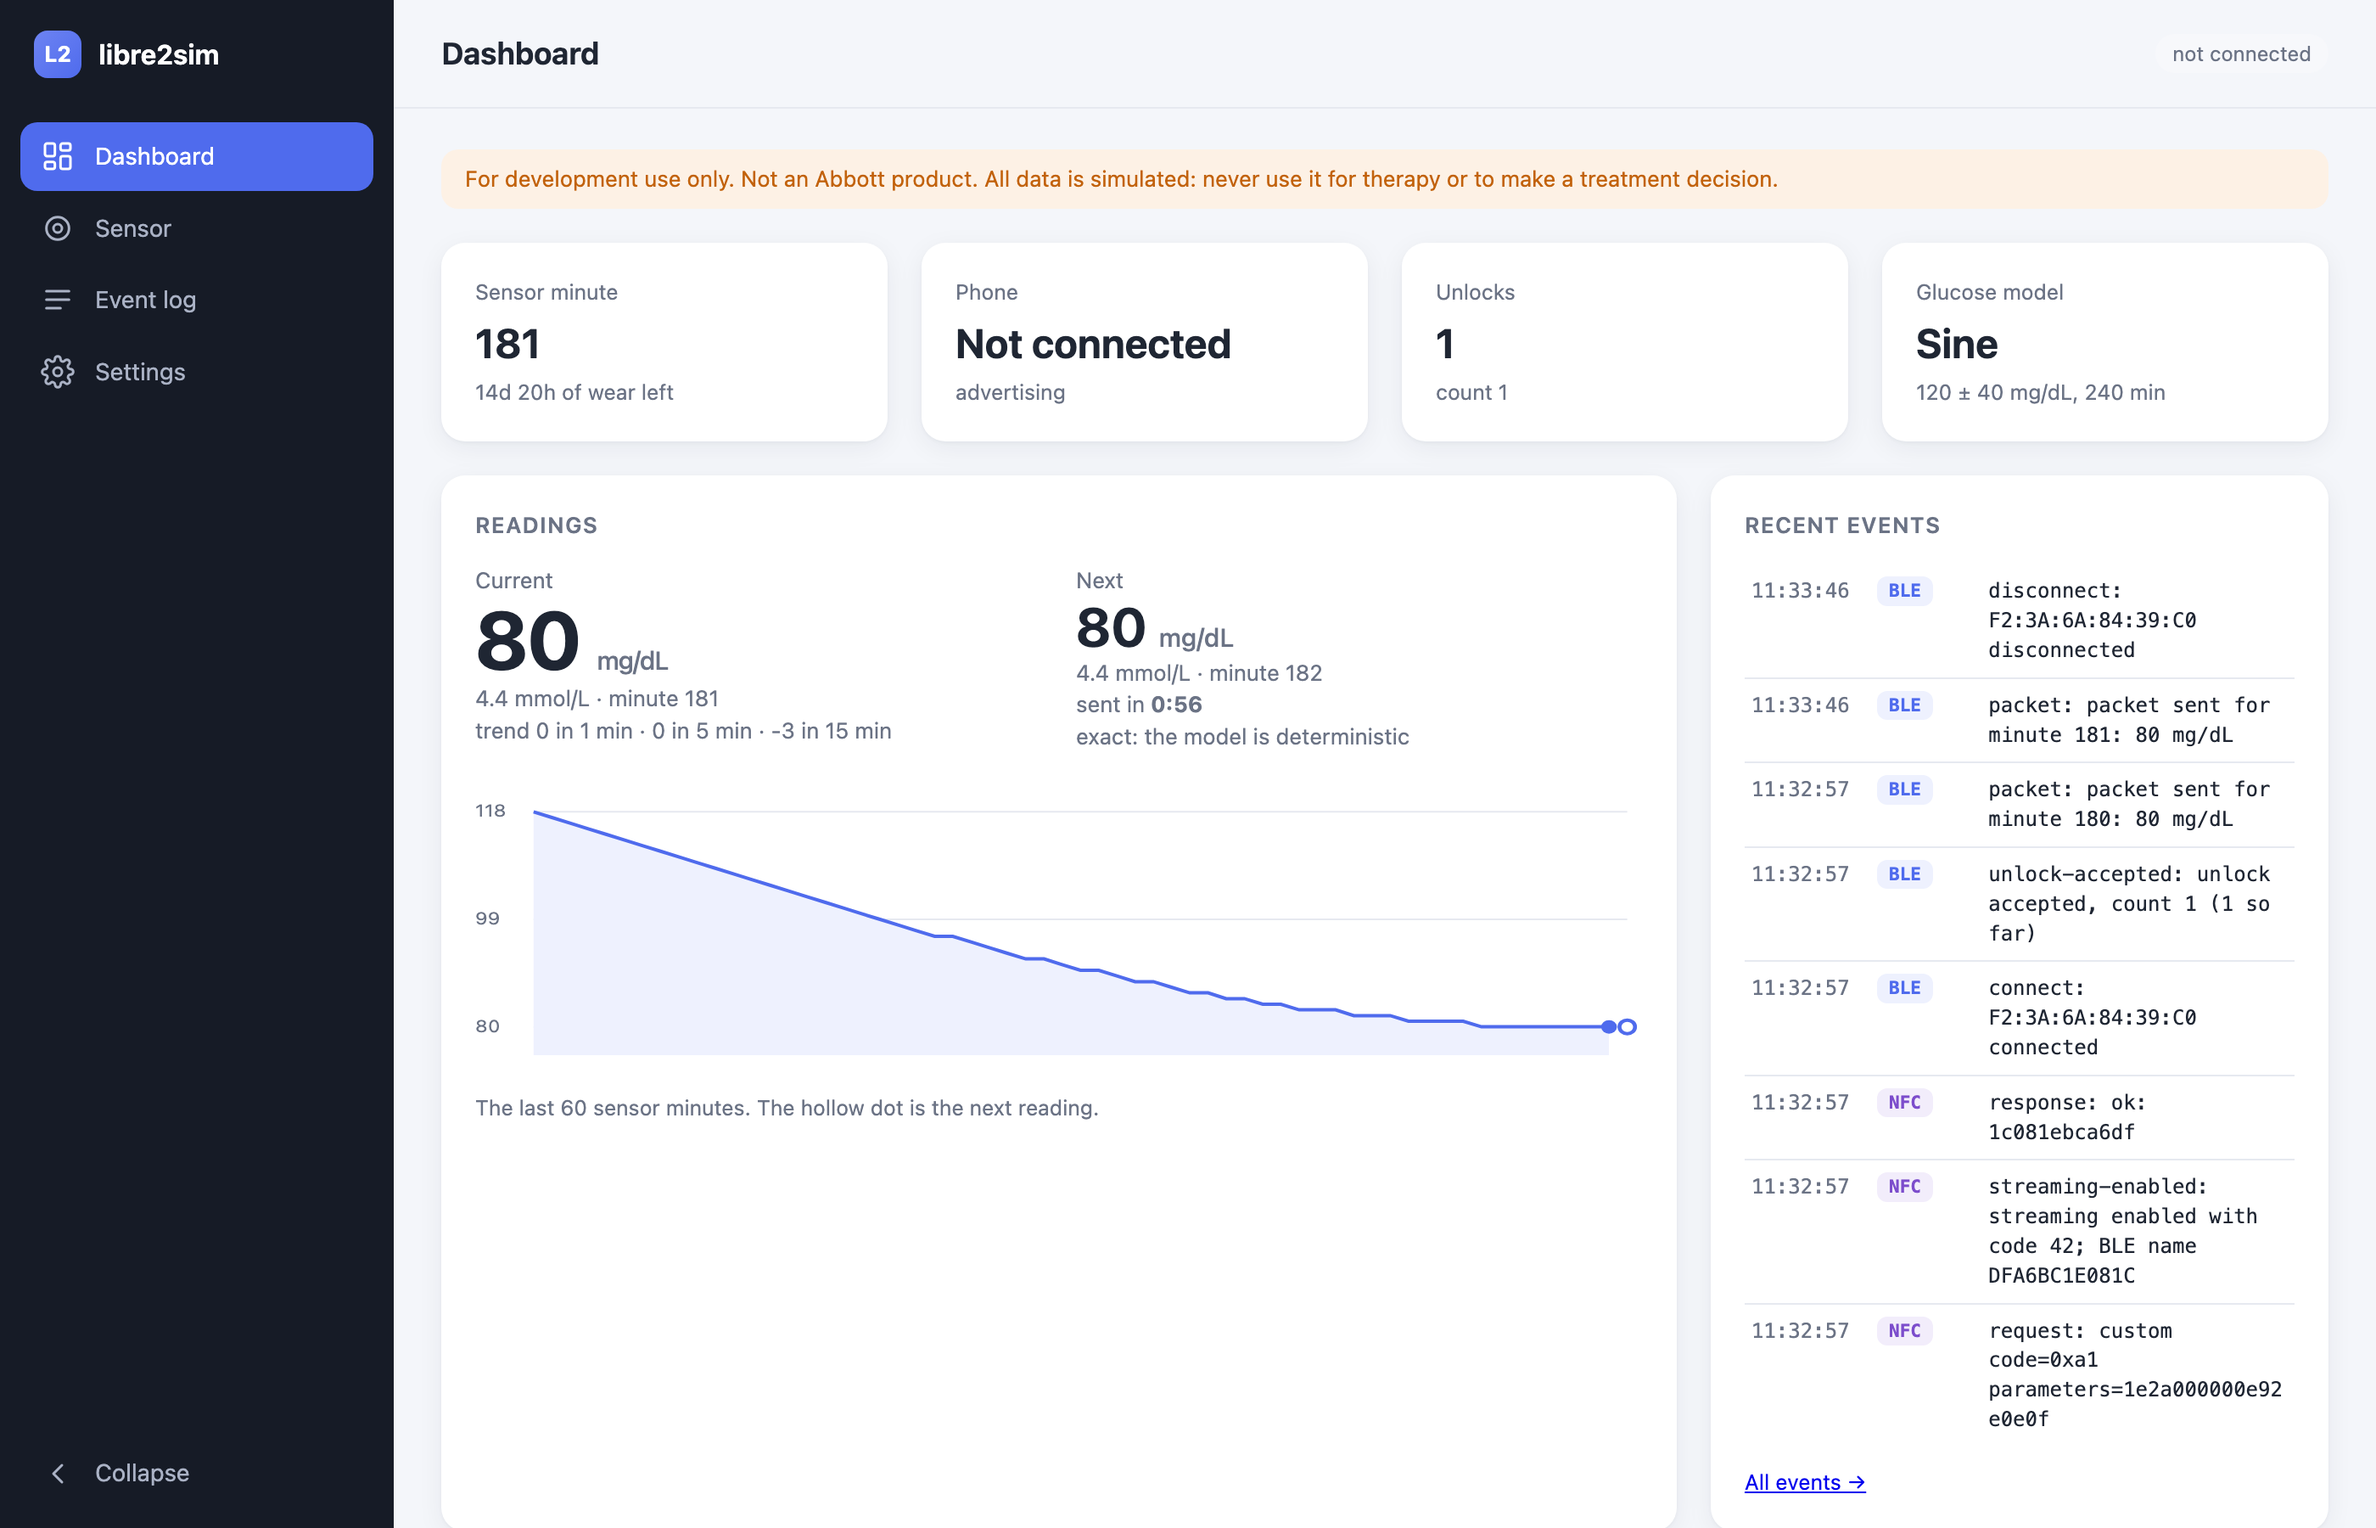
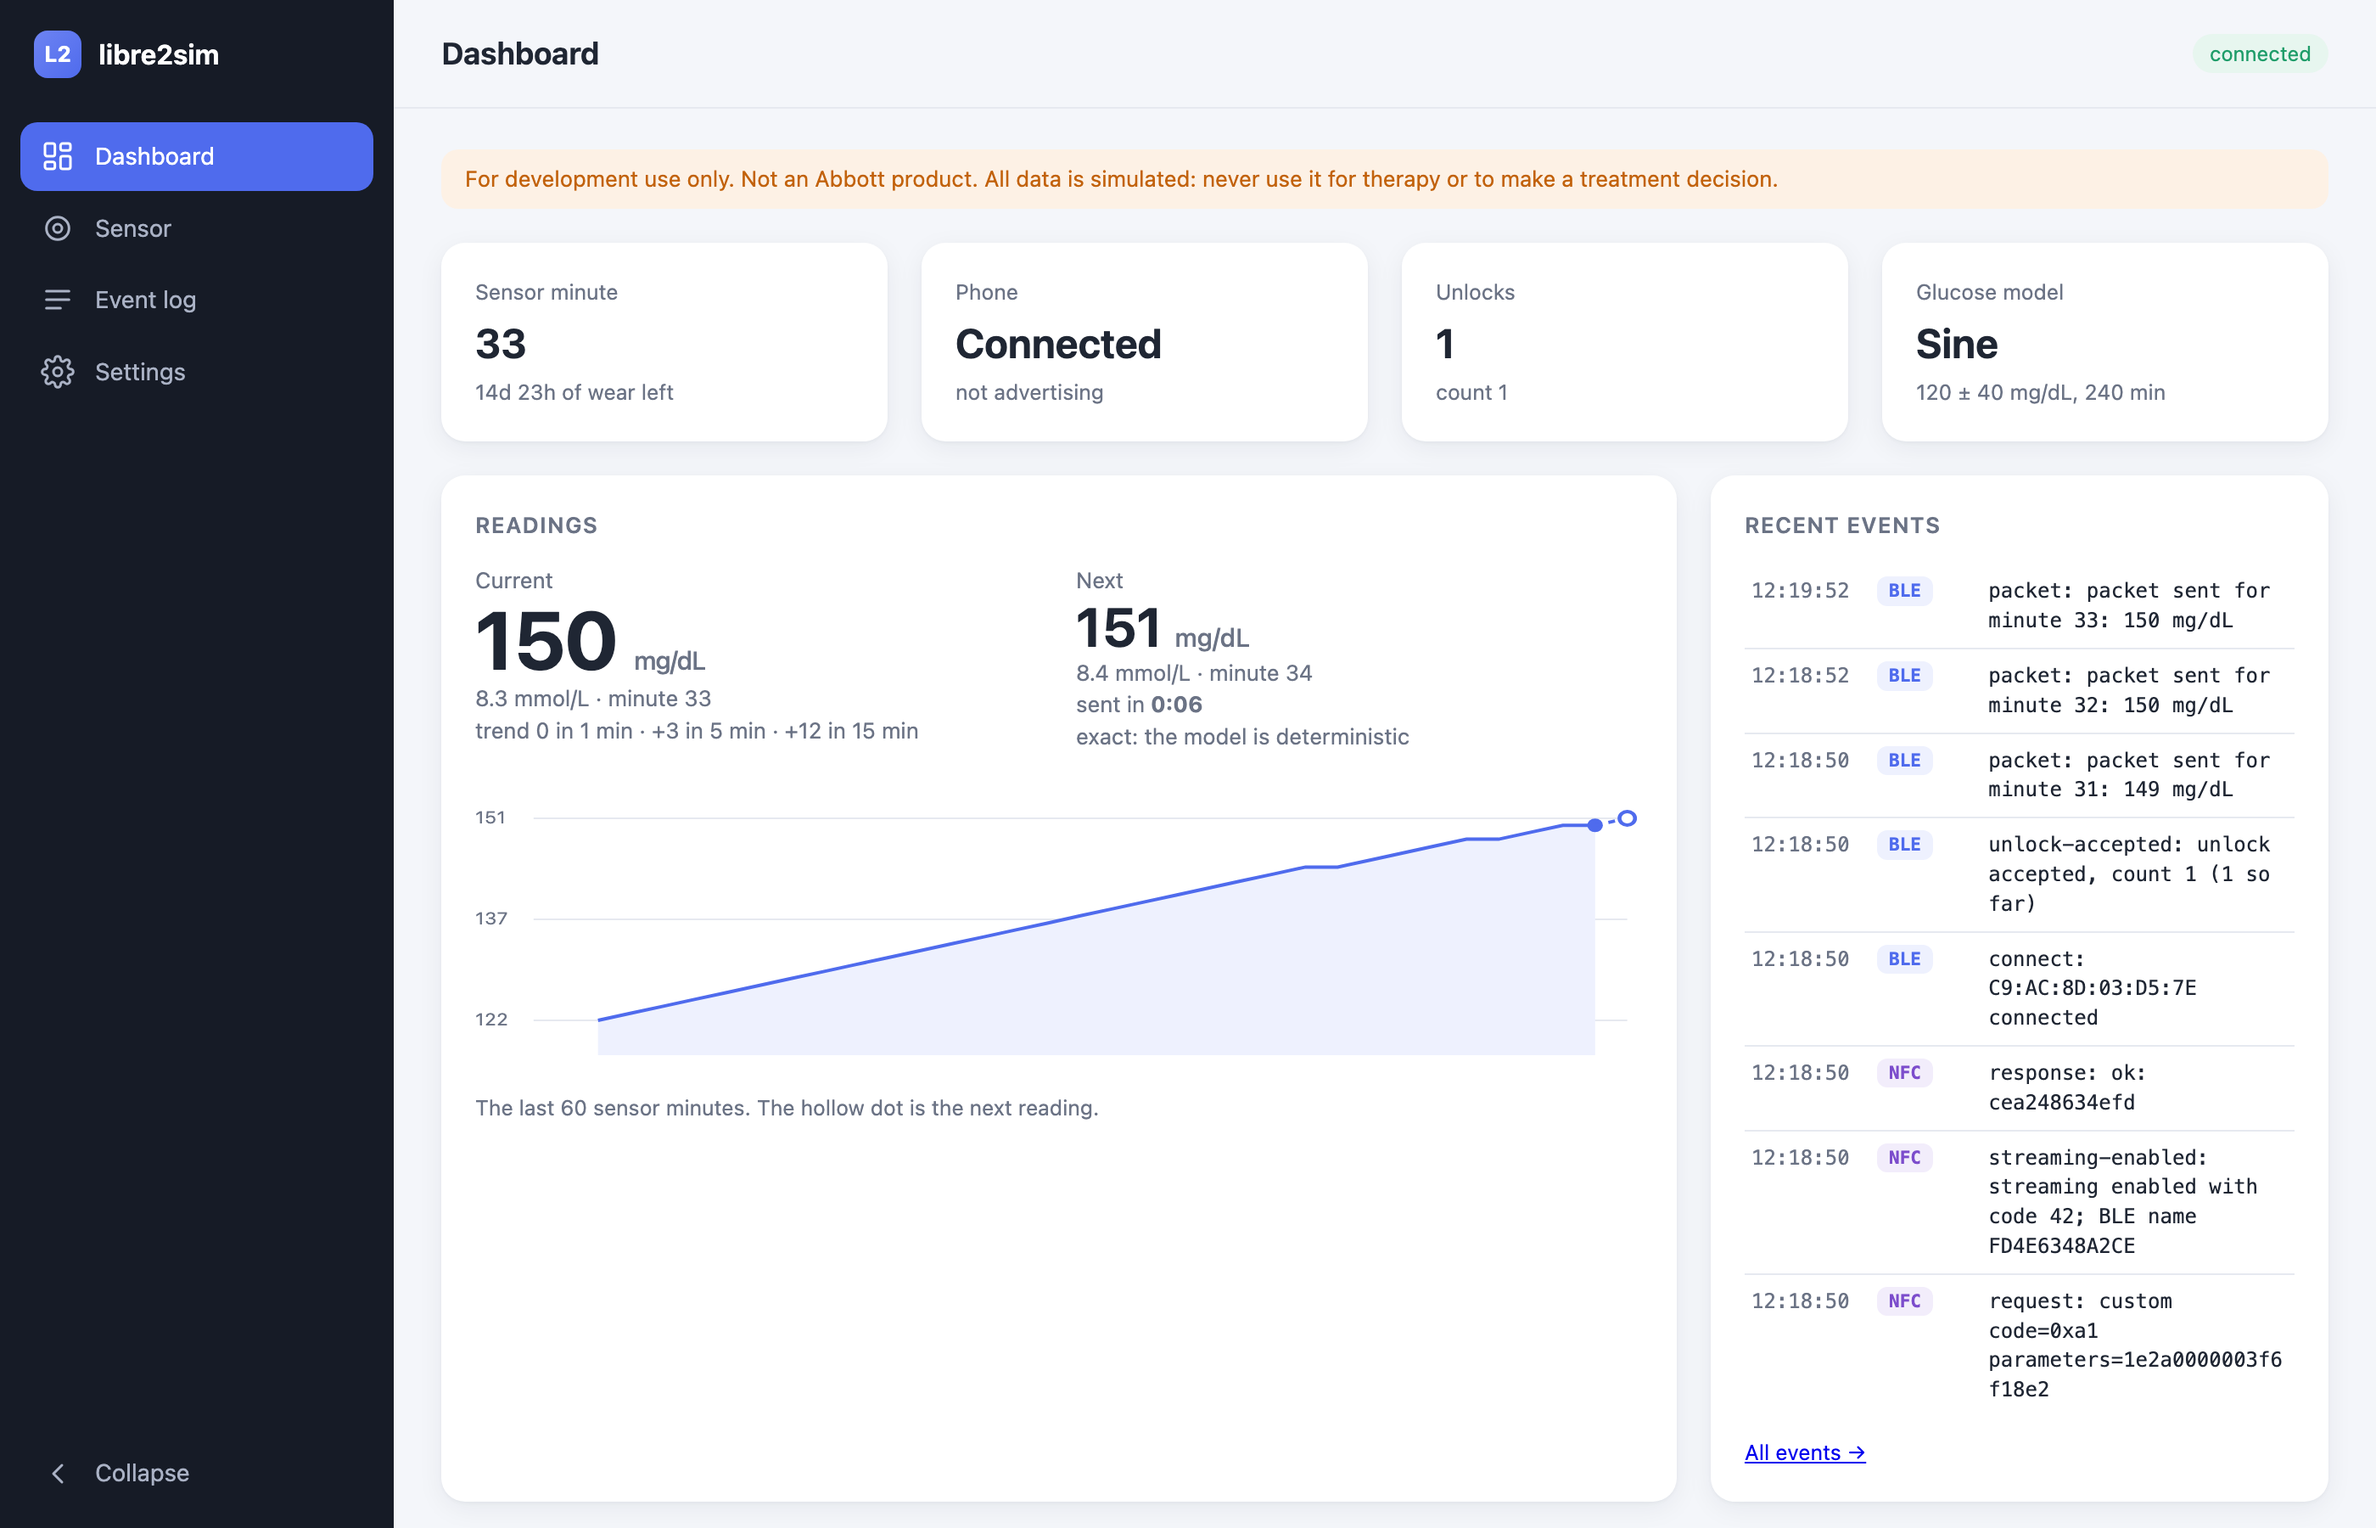
README: Loop paired with libre2sim in the Simulator, and a fresh dashboard screenshot

diff --git a/README.md b/README.md
@@ -62,6 +62,8 @@ Everything it does is also an HTTP call (see [Control API](#control-api); it lis
 3. **Run Loop on an iPhone Simulator.** In Loop, add a CGM, choose FreeStyle Libre and its Libre 2 option, and tap Pair Sensor. The "scan"
    goes to libre2sim, the app finds the sensor over (simulated) Bluetooth, and a reading arrives each minute.
 
+   <img src="docs/images/loop-sensor.png" width="300" alt="Loop in the iOS Simulator, paired with libre2sim's sensor: operational, with its last measurement">
+
 [docs/running.md](docs/running.md) has the details and a troubleshooting table; [docs/scenarios.md](docs/scenarios.md)
 has scenarios to try (out of range, low glucose, end of wear, faults, a new sensor).
 
